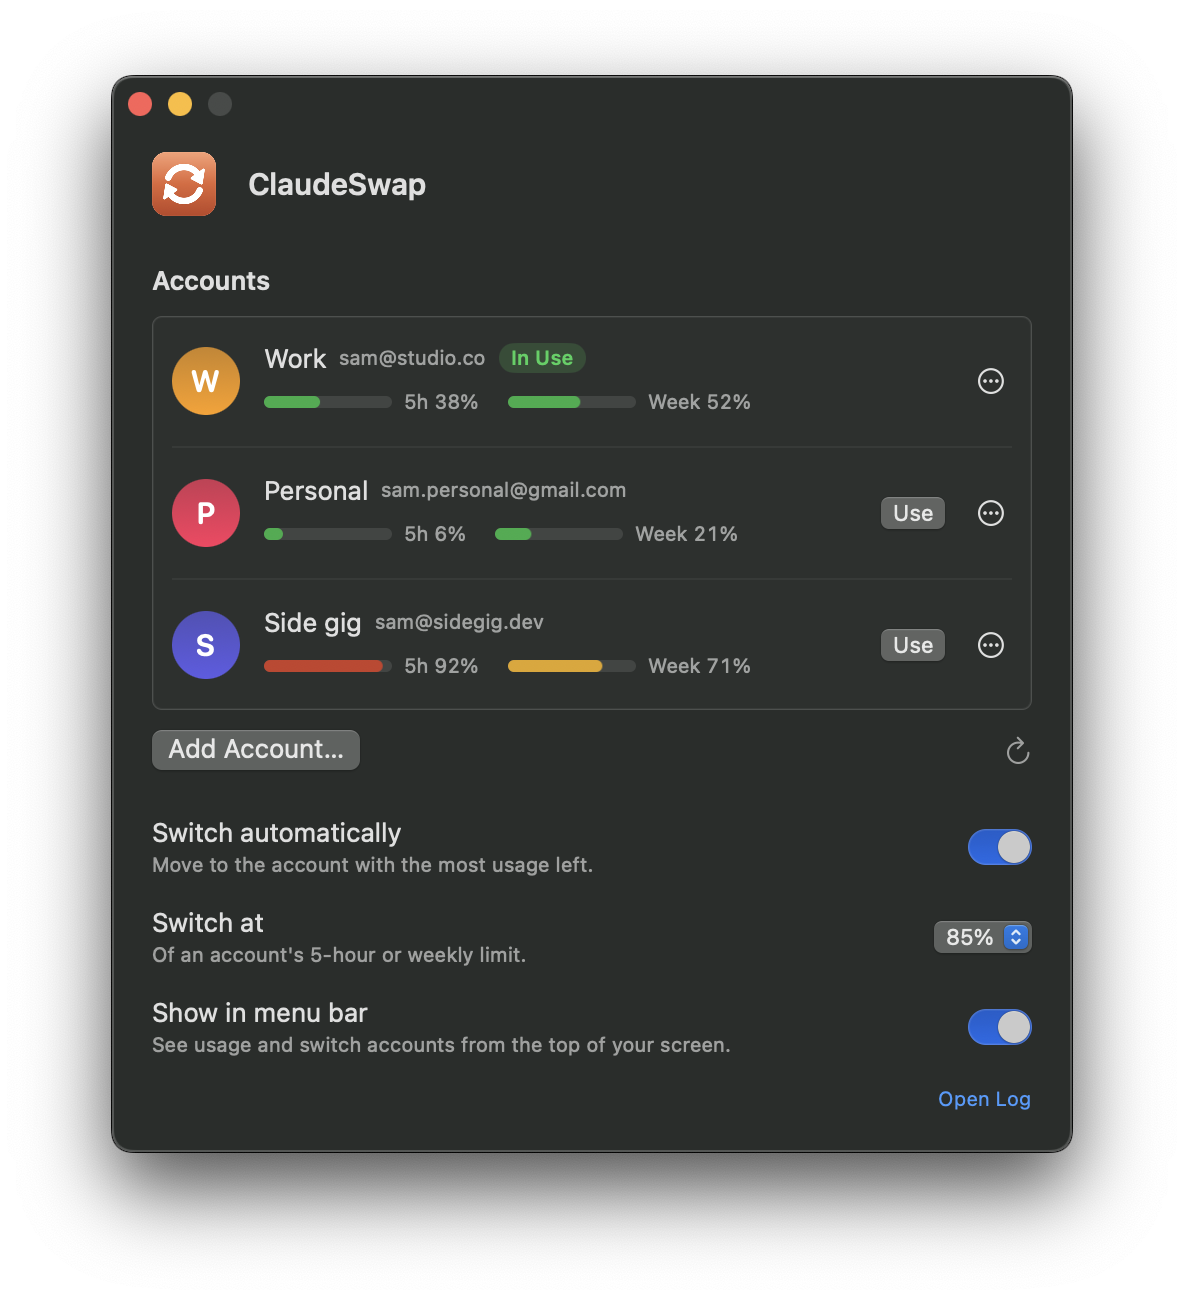
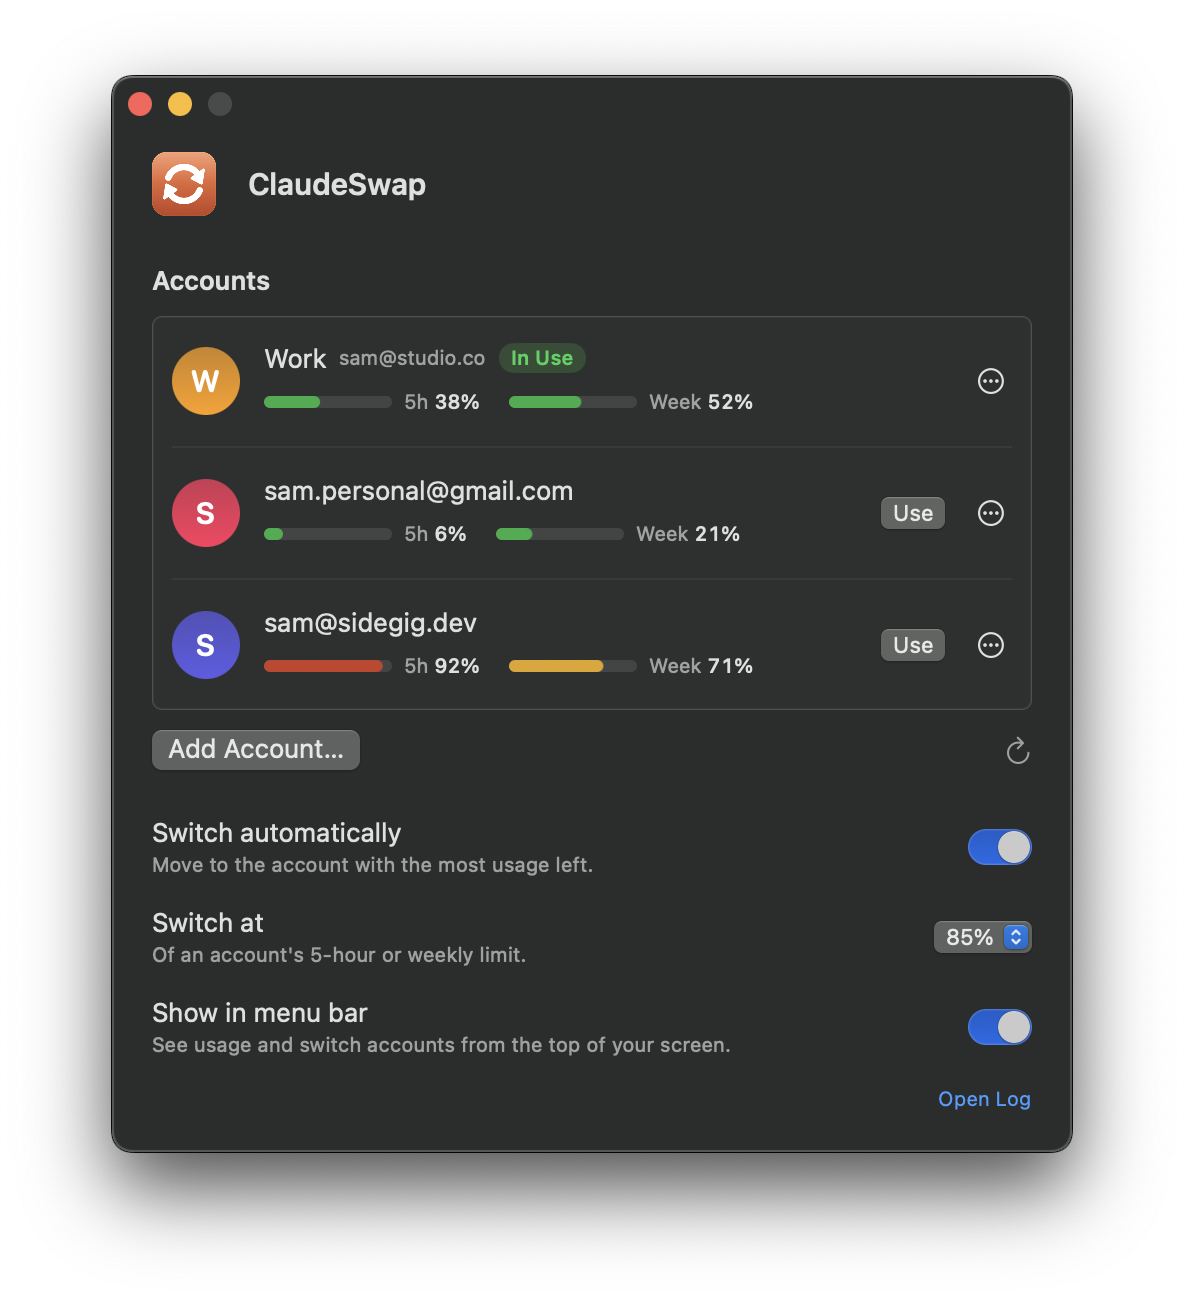
Two-tone usage labels, update check via releases redirect, README sample shows emails by default

diff --git a/app/Switcher.swift b/app/Switcher.swift
@@ -30,7 +30,7 @@ let notifierPath = Bundle.main.bundlePath + "/Contents/Helpers/ClaudeSwap Notifi
 /// Display names people give their accounts, keyed by email. Stored in the app's defaults so the watcher sees them too.
 enum Nicknames {
     static let key = "nicknames"
-    static let demo = ["sam@studio.co": "Work", "sam.personal@gmail.com": "Personal", "sam@sidegig.dev": "Side gig"]
+    static let demo = ["sam@studio.co": "Work"]
 
     static func all() -> [String: String] {
         isDemo ? demo : (UserDefaults.standard.dictionary(forKey: key) as? [String: String] ?? [:])
@@ -174,9 +174,6 @@ struct ConfigValue: Decodable {
     let isSet: Bool?
 }
 
-struct Release: Decodable {
-    let tag_name: String
-}
 
 // MARK: - Model
 
@@ -427,11 +424,14 @@ final class Model: ObservableObject {
         nicknames = Nicknames.all()
     }
 
+    /// Follows github.com's /releases/latest redirect (…/tag/vX.Y); unlike the API it isn't rate-limited.
     func checkForUpdate() async {
-        guard !isDemo, let url = URL(string: "https://api.github.com/repos/\(repo)/releases/latest"),
-              let (data, _) = try? await URLSession.shared.data(from: url),
-              let release = try? JSONDecoder().decode(Release.self, from: data) else { return }
-        let v = release.tag_name.trimmingCharacters(in: CharacterSet(charactersIn: "v"))
+        guard !isDemo, let url = URL(string: "https://github.com/\(repo)/releases/latest") else { return }
+        var request = URLRequest(url: url)
+        request.httpMethod = "HEAD"
+        guard let (_, response) = try? await URLSession.shared.data(for: request),
+              let final = response.url, final.path.contains("/tag/") else { return }
+        let v = final.lastPathComponent.trimmingCharacters(in: CharacterSet(charactersIn: "v"))
         latestVersion = v.compare(appVersion, options: .numeric) == .orderedDescending ? v : nil
     }
 
@@ -921,9 +921,9 @@ struct Meter: View {
                 .gaugeStyle(.accessoryLinearCapacity)
                 .tint(color)
                 .frame(width: 64)
-            Text("\(label) \(window.map { "\(Int($0.pct))%" } ?? "–")")
+            (Text(label + " ").foregroundColor(.secondary)
+                + Text(window.map { "\(Int($0.pct))%" } ?? "–").foregroundColor(.primary).fontWeight(.medium))
                 .font(.caption.monospacedDigit())
-                .foregroundStyle(.secondary)
         }
         .help(resets)
     }
